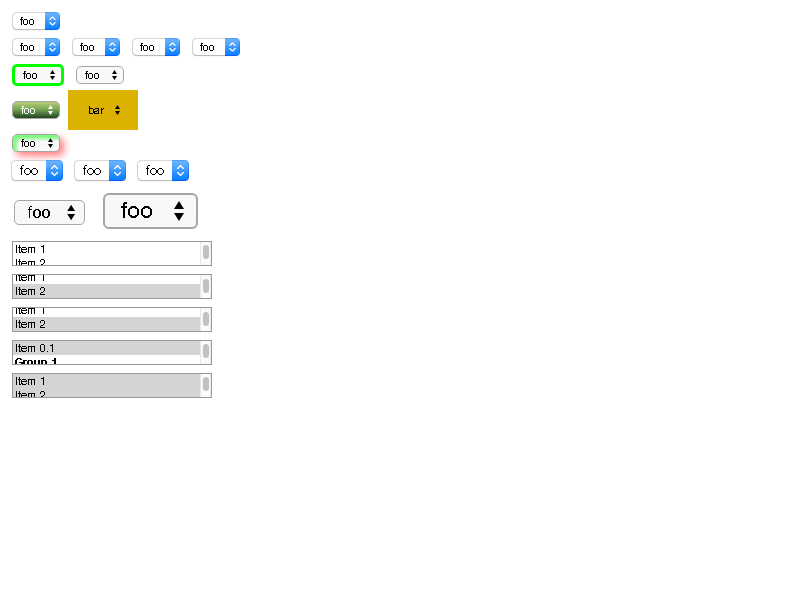
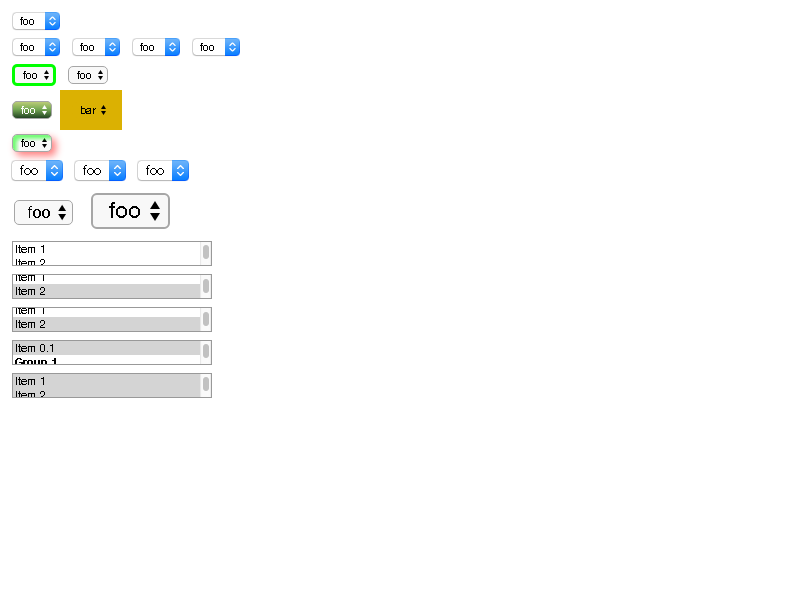
OSX: Reduce the internal right padding of -webkit-appearance:menulist-button.
- Remove paddingBeforeSeparator.
  We remove the separator a long time ago.

- Shrink menuListArrowPadding{Left,Right}
  New value matches to the native appearance in Yosemite.

This CL has small compatibility risk.  This CL makes the intrinsic width of menulist
<select> different in -webkit-appearance:menulist and -webkit-appearnace:
menulist-button.  It means specifying background-color CSS property to <select> may
change its width.

BUG=558326

Review URL: https://codereview.chromium.org/1474943003

Cr-Original-Commit-Position: refs/heads/master@{#361641}
Cr-Mirrored-From: https://chromium.googlesource.com/chromium/src
Cr-Mirrored-Commit: f00533224976983e934f254f865b69a702fb6bc6

Changed region(s): [[0.0625, 0.09, 0.1875, 0.27], [0.0625, 0.3, 0.25, 0.39]]

diff --git a/WebKit/Source/core/layout/LayoutThemeMac.mm b/WebKit/Source/core/layout/LayoutThemeMac.mm
@@ -812,7 +812,6 @@ void LayoutThemeMac::adjustMenuListStyle(ComputedStyle& style, Element* e) const
     setFontFromControlSize(style, controlSize);
 }
 
-static const int paddingBeforeSeparator = 4;
 static const int baseBorderRadius = 5;
 static const int styledPopupPaddingLeft = 8;
 static const int styledPopupPaddingTop = 1;
@@ -836,7 +835,7 @@ int LayoutThemeMac::popupInternalPaddingRight(const ComputedStyle& style) const
     if (style.appearance() == MenulistButtonPart) {
         float fontScale = style.fontSize() / baseFontSize;
         float arrowWidth = menuListBaseArrowWidth * fontScale;
-        return static_cast<int>(ceilf(arrowWidth + (menuListArrowPaddingLeft + menuListArrowPaddingRight + paddingBeforeSeparator) * style.effectiveZoom()));
+        return static_cast<int>(ceilf(arrowWidth + (menuListArrowPaddingLeft + menuListArrowPaddingRight) * style.effectiveZoom()));
     }
     return 0;
 }

diff --git a/WebKit/Source/core/layout/LayoutThemeMac.h b/WebKit/Source/core/layout/LayoutThemeMac.h
@@ -156,8 +156,8 @@ public:
     static constexpr float menuListBaseArrowHeight = 4.0f;
     static constexpr float menuListBaseArrowWidth = 5.0f;
     static constexpr float menuListBaseSpaceBetweenArrows = 2.0f;
-    static const int menuListArrowPaddingLeft = 6;
-    static const int menuListArrowPaddingRight = 6;
+    static const int menuListArrowPaddingLeft = 4;
+    static const int menuListArrowPaddingRight = 4;
     static const int sliderThumbWidth = 15;
     static const int sliderThumbHeight = 15;
     static const int sliderThumbShadowBlur = 1;
